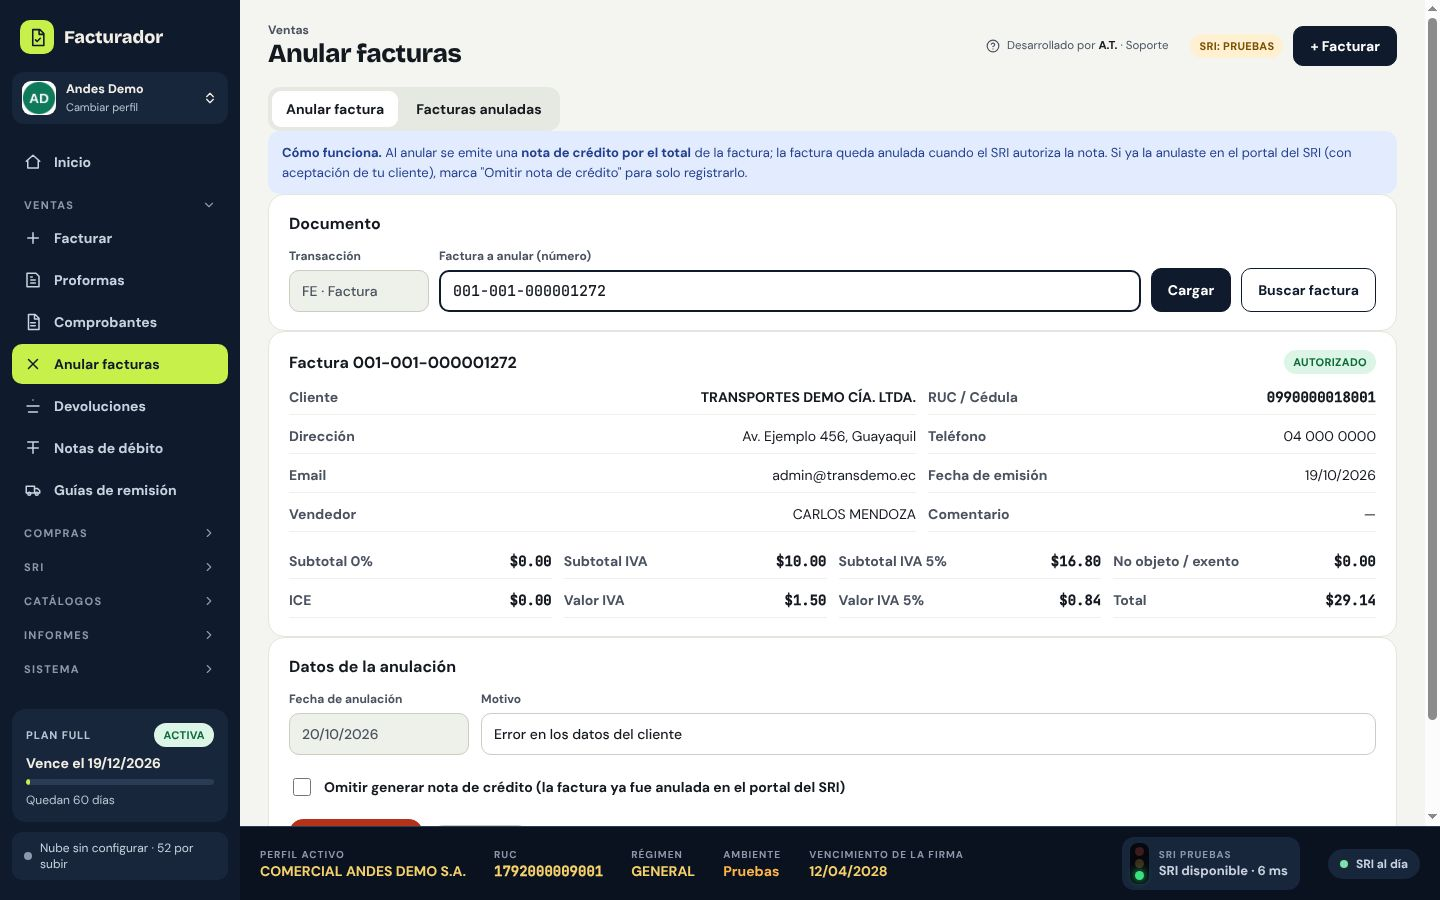
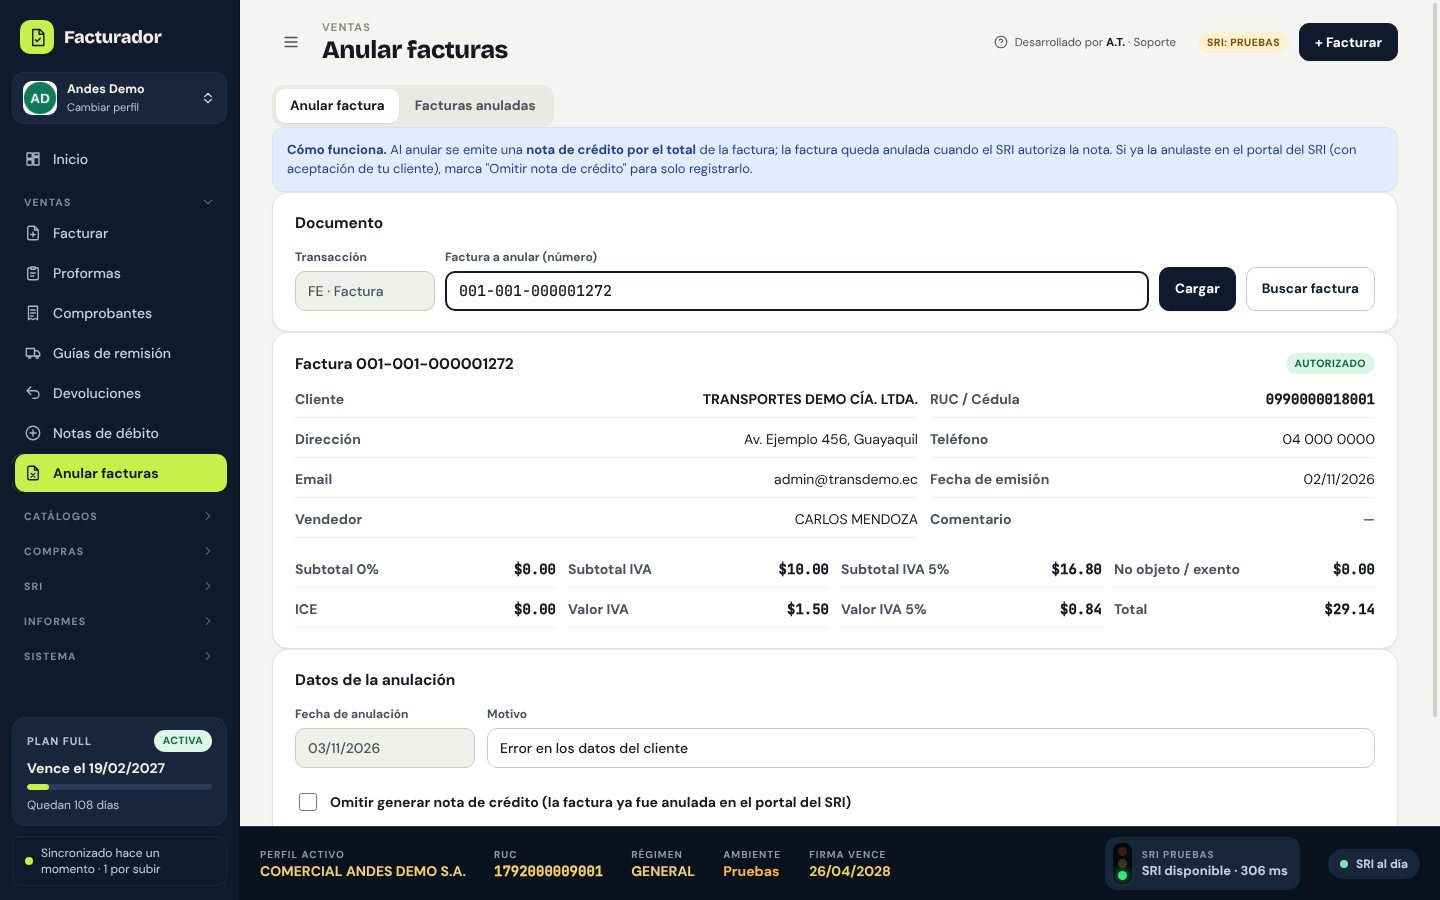
Recorrido del Facturador con el diseño 0.6.0
Claude-Session: https://claude.ai/code/session_01VtSCBU9waPVTdkNV5jUGNa

diff --git a/demos/facturador/index.html b/demos/facturador/index.html
@@ -44,7 +44,7 @@
   <a href="#produccion">Producción</a><a href="#usuarios">Usuarios</a><a href="#respaldos">Respaldos</a>
 </nav>
 <main>
-  <figure id="inicio"><h2>Todo el negocio de un vistazo</h2><p>Ventas del mes, siguiente número de factura, accesos rápidos y el semáforo del SRI siempre visible.</p><div class="marco"><img src="img/inicio.jpg" alt="Pantalla de inicio con ventas del mes y accesos rápidos" loading="lazy" width="1440" height="900"></div></figure>
+  <figure id="inicio"><h2>Todo el negocio de un vistazo</h2><p>Ventas del mes, siguiente número de factura, accesos rápidos y el semáforo del SRI siempre visible. El menú se puede esconder con Ctrl+B para ganar espacio.</p><div class="marco"><img src="img/inicio.jpg" alt="Pantalla de inicio con ventas del mes y accesos rápidos" loading="lazy" width="1440" height="900"></div></figure>
   <figure id="factura"><h2>Facturar en segundos</h2><p>Tus productos más vendidos aparecen en una barra deslizable: un toque y entran a la factura. Las líneas se ven limpias y se editan con solo tocarlas; los datos de pago quedan plegados hasta que los necesites.</p><div class="marco"><img src="img/factura.jpg" alt="Pantalla de nueva factura con la barra de más vendidos" loading="lazy" width="1440" height="900"></div></figure>
   <figure id="agregar"><h2>Varios productos de una vez</h2><p>Con F2 se abre una ventana para buscar por código o nombre, elegir varios productos, ajustar cantidad, precio e IVA y pasarlos todos juntos a la factura.</p><div class="marco"><img src="img/agregar.jpg" alt="Ventana para agregar varios productos a la factura" loading="lazy" width="1440" height="900"></div></figure>
   <figure id="ride"><h2>Autorizada y lista para entregar</h2><p>Al emitir se firma con XAdES-BES, se valida contra el esquema oficial, se envía al SRI y aparece la vista previa del RIDE para imprimir, guardar o enviar por correo.</p><div class="marco"><img src="img/ride.jpg" alt="Vista previa del RIDE de una factura autorizada" loading="lazy" width="1440" height="900"></div></figure>
